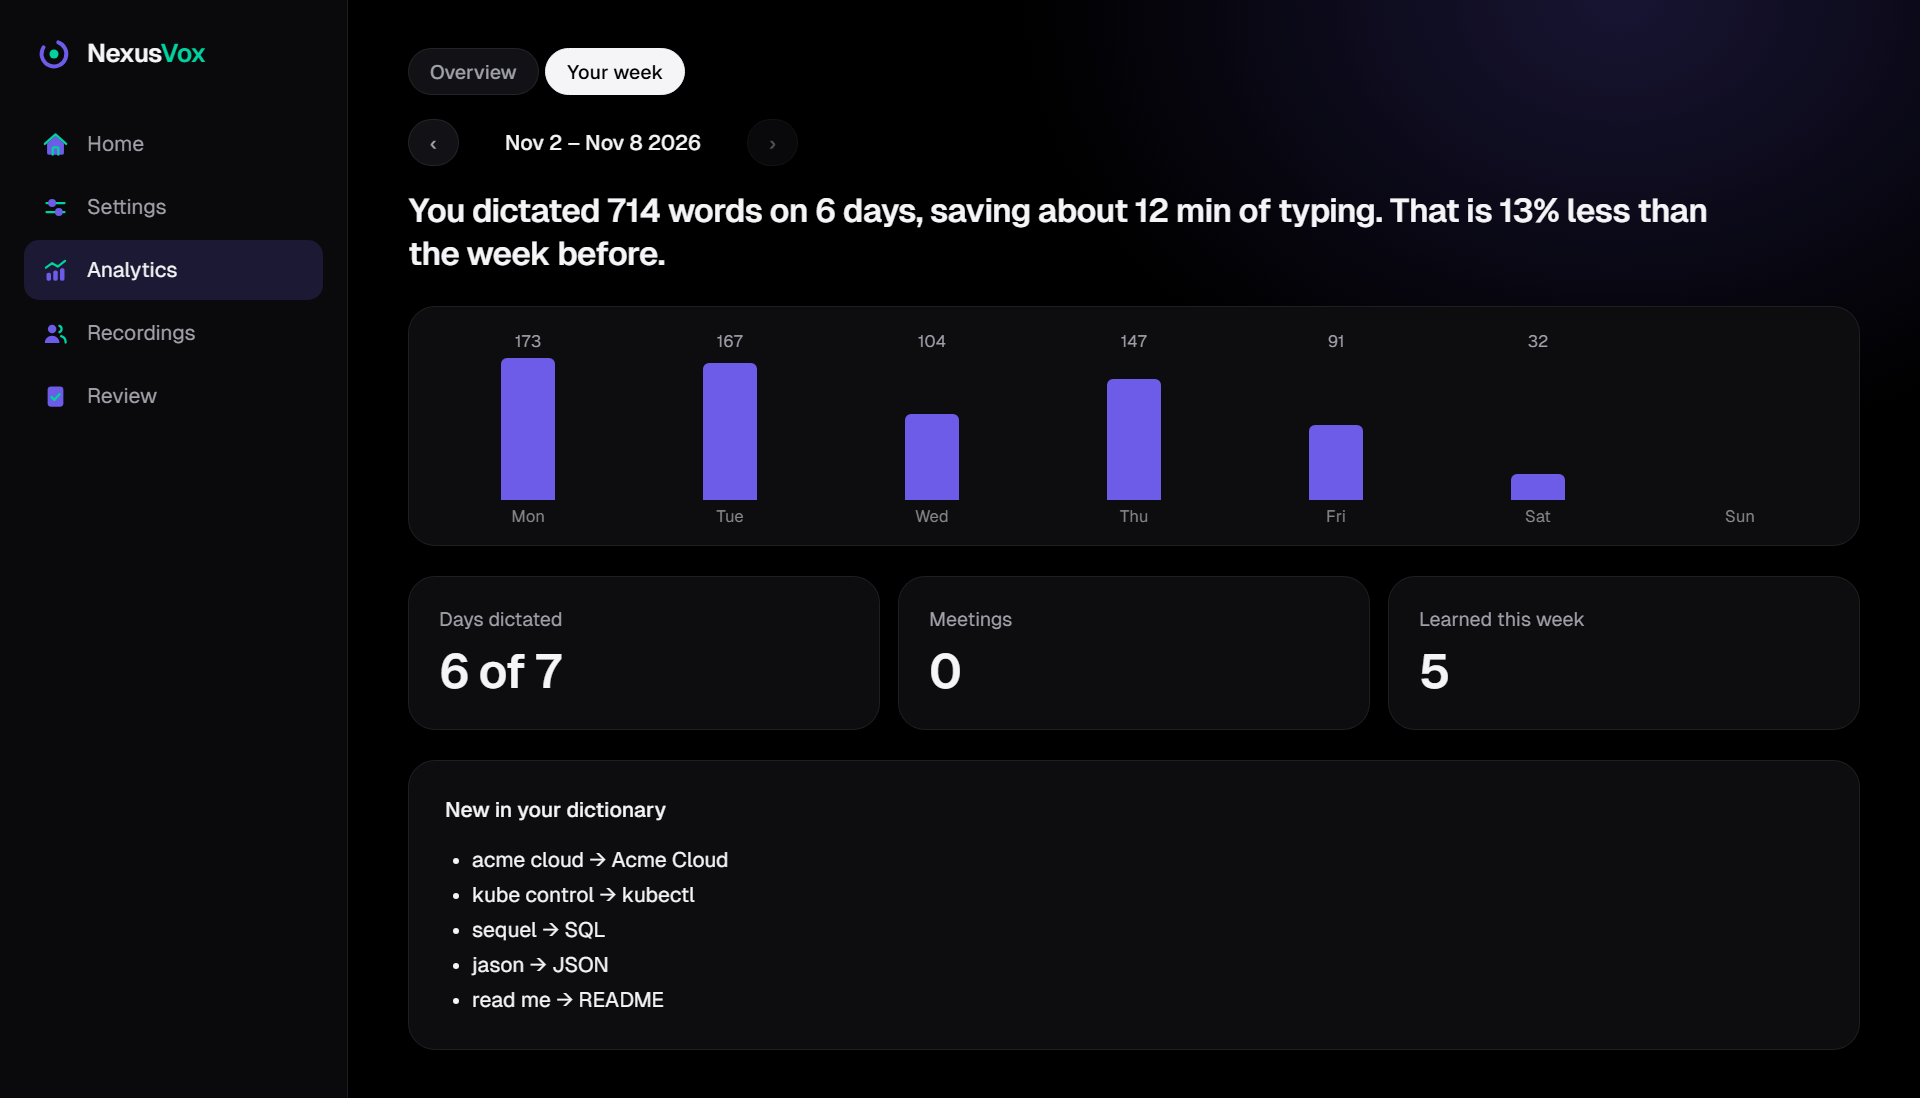
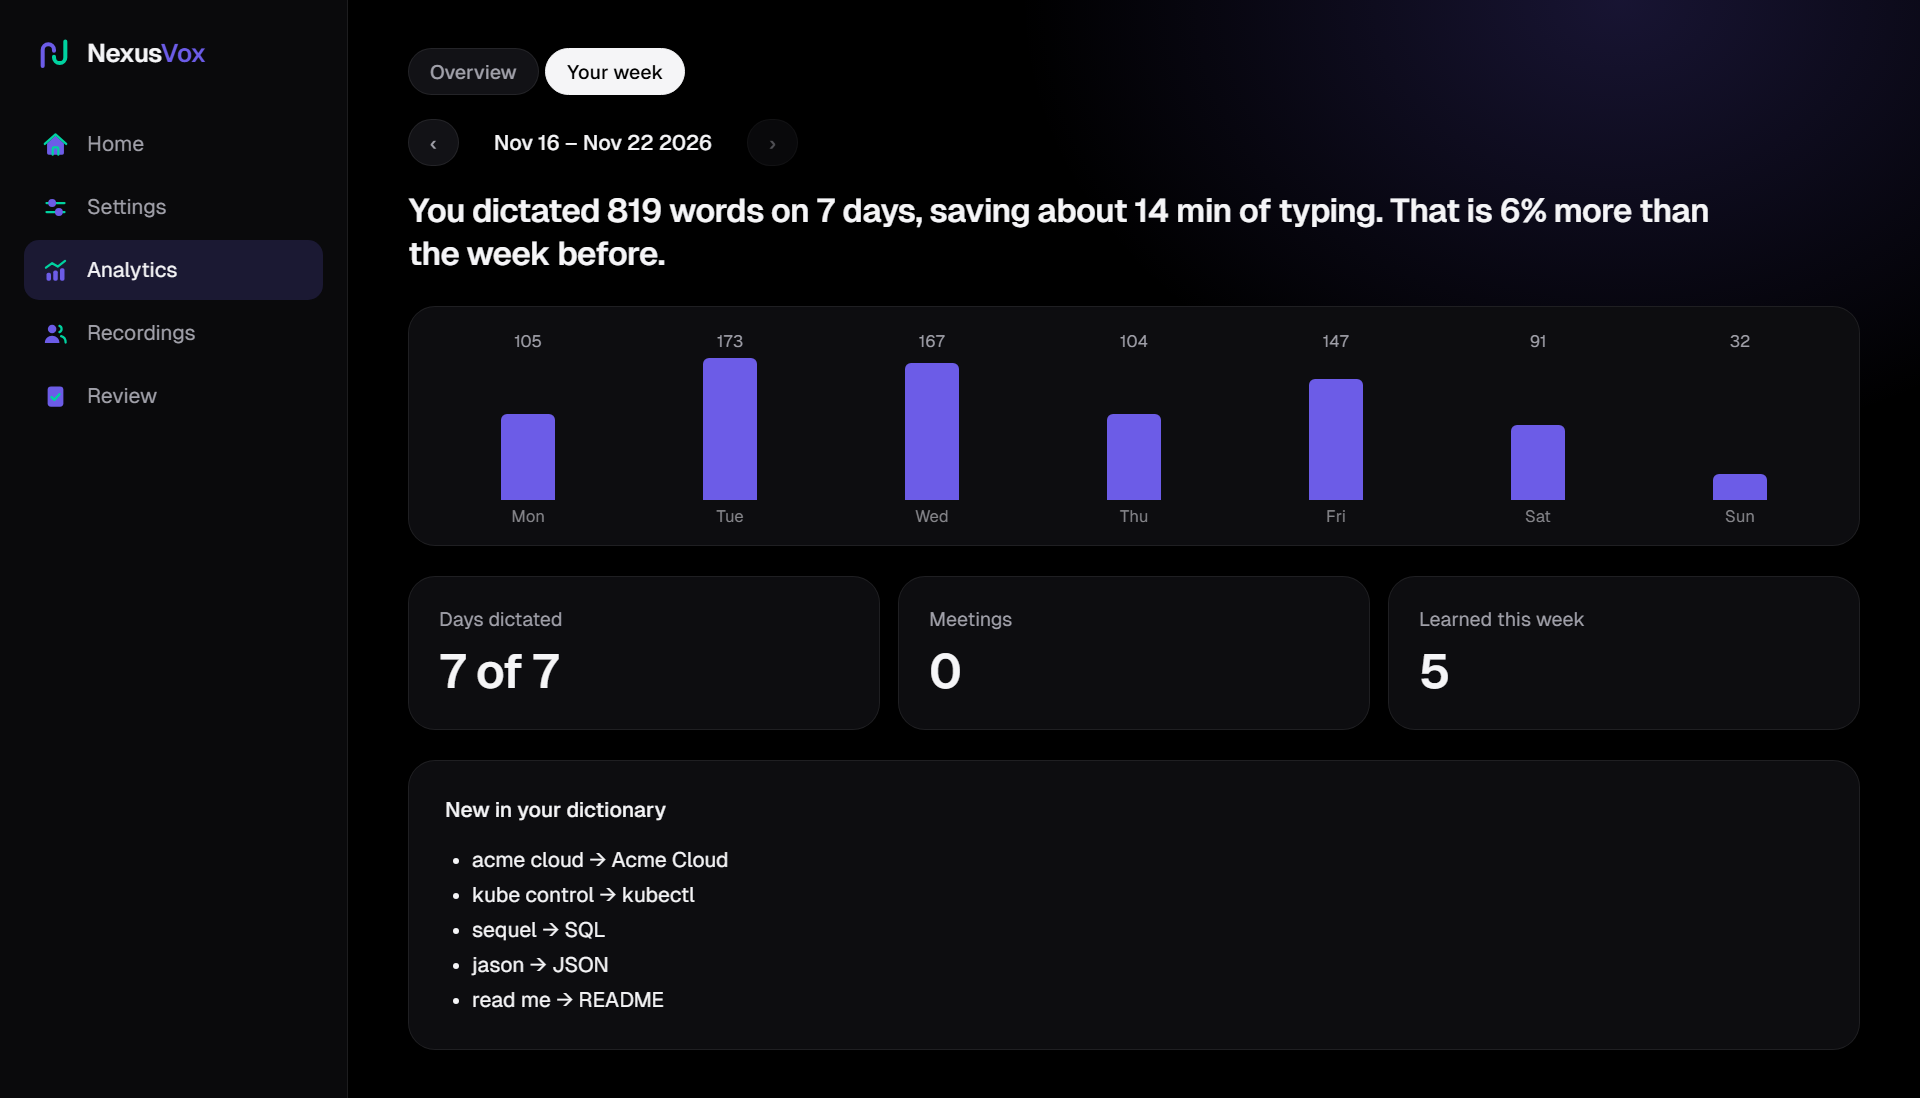
Refresh the stale dashboard screenshots
Closes #374

The committed images no longer matched the dashboard. Re-ran
scripts/dashboard_screenshots.py and committed the images that differ.
The README now uses dashboard-analytics.png and dashboard-settings.png,
with captions that match them. The four images from before the Recordings
tab (dashboard.png, settings.png, dashboard-meetings.png,
dashboard-upload.png) were referenced nowhere else and are deleted.
docs/SCREENSHOTS.md no longer calls them untouched.

diff --git a/README.md b/README.md
@@ -33,7 +33,7 @@ clicks apply. Check a download in the file's Properties, Digital Signatures tab,
 After the install, the dashboard opens and walks you through the microphone and the hotkey.
 [GettingStarted.md](GettingStarted.md) has the full guide with configuration and troubleshooting.
 
-![The NexusVox analytics dashboard: a dark interface with tiles for transcription count, average, minimum and maximum words per minute, average duration and minutes saved, above a line chart of transcriptions over time with a date-range filter.](docs/images/dashboard.png)
+![The NexusVox analytics dashboard: a dark interface with tiles for words dictated, dictations, words per minute and time saved, above a bar chart of words per day and a ranking of the apps you dictate into.](docs/images/dashboard-analytics.png)
 
 *Every transcription is stored locally and analysed in the built-in dashboard: words per minute, session length, usage over time.*
 
@@ -202,9 +202,7 @@ Starting NexusVox from the Start menu or a shortcut opens the dashboard; the Win
 | Upload | Transcribe audio files (WAV, MP3, FLAC, OGG, WEBM, up to 2 GB); optional speaker detection with Parakeet; optional text cleanup with the local language model; download as TXT, SRT or VTT (subtitles need Parakeet's word timing) |
 | Review | Flag and replay recordings |
 
-*(Screenshot from before the Settings tab was grouped: the compute device selector now sits on the **Advanced** page, and the language setting was removed.)*
-
-![The NexusVox settings tab: a compute device selector resolved to GPU (CUDA), a transcription model selector set to Parakeet TDT 0.6B, and a model overview listing architecture, parameter count, protocol, runtime, supported languages and VRAM.](docs/images/settings.png)
+![The NexusVox settings tab on the Dictation page: the hotkey with its modifier checkboxes, the hotkey mode, the microphone, the feedback style and the option to mute other apps while recording.](docs/images/dashboard-settings.png)
 
 **Speaker detection (Parakeet on GPU only).** In the Recordings tab, click the upload button, choose a file, switch on *Detect speakers* and click *Transcribe*; the transcript comes back as `Speaker 1: …` paragraphs, one per turn. The Parakeet container runs NVIDIA's [Streaming Sortformer](https://huggingface.co/nvidia/diar_streaming_sortformer_4spk-v2) (`nvidia/diar_streaming_sortformer_4spk-v2`, CC-BY-4.0, ~0.5 GB download, no token) once over the whole file; it is loaded on the first upload that asks for it and only occupies the GPU while it runs, so a dictation made during that run waits a few seconds. It tells **at most 4 speakers** apart — with more, voices get merged. If the container was built before this feature, rebuild it (`docker compose --profile parakeet up --build`).
 

diff --git a/docs/SCREENSHOTS.md b/docs/SCREENSHOTS.md
@@ -42,9 +42,8 @@ slug and hide the rows after the hotkey row on Dictation (selector in `GUIDE_SHO
 matching, the image simply gets longer: look at the
 result before committing.
 
-The dashboard has a single (dark) theme, so there is no light/dark pair. The older `dashboard.png`,
-`settings.png`, `dashboard-meetings.png` and `dashboard-upload.png` (from before the Recordings tab) are
-not touched.
+The dashboard has a single (dark) theme, so there is no light/dark pair. Every image in `docs/images/` comes from
+this script; re-run it and commit the images that differ whenever the dashboard's look changes.
 
 ## Options
 
